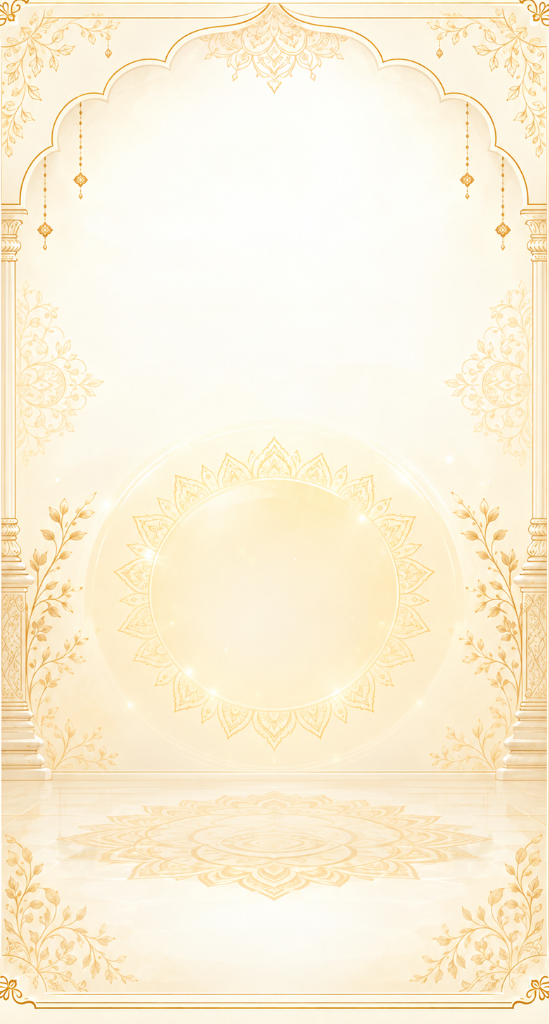
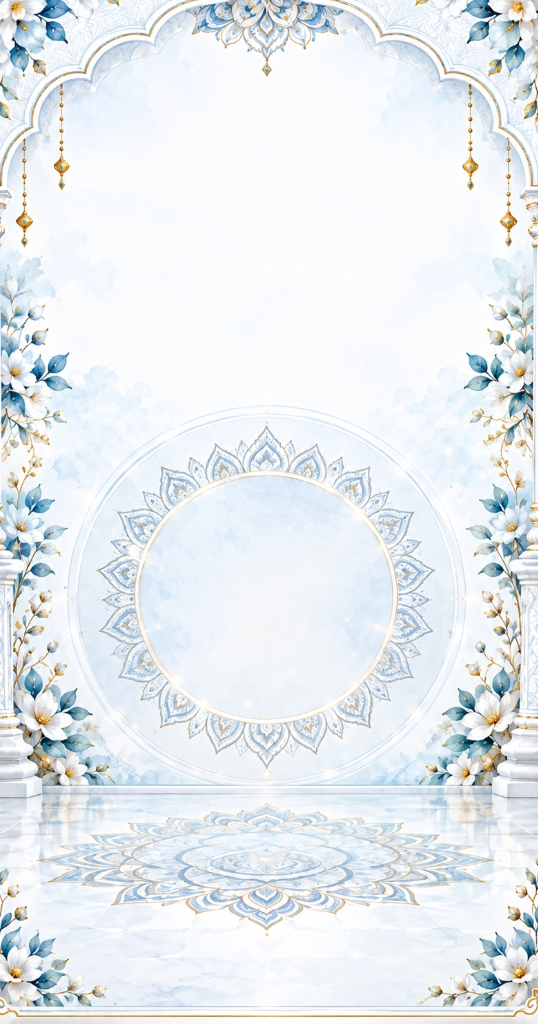
feat(theme): update hero bg to blue floral mandala and set whole website background to #F3F5FA

diff --git a/style.css b/style.css
@@ -17,7 +17,7 @@
   --color-text-muted: #4a5568;
   --color-text-soft: #718096;
   
-  --bg-page: #fbf8f2;
+  --bg-page: #F3F5FA;
   --bg-card: #ffffff;
   
   --container-pad: 16px;
@@ -50,7 +50,7 @@
 html {
   scroll-behavior: smooth;
   font-size: 16px;
-  background-color: #fcf4de;
+  background-color: #F3F5FA;
   color: var(--color-text-main);
   -webkit-text-size-adjust: 100%;
 }
@@ -59,7 +59,7 @@ body {
   font-family: var(--font-sans);
   line-height: 1.5;
   min-height: 100vh;
-  background-color: #fcf4de;
+  background-color: #F3F5FA;
   overflow-x: clip;
   display: flex;
   justify-content: center;
@@ -106,7 +106,7 @@ button {
 .invite-container {
   width: 100%;
   max-width: 480px;
-  background-color: #fcf4de;
+  background-color: #F3F5FA;
   min-height: 100vh;
   box-shadow: 0 15px 50px rgba(19, 57, 121, 0.12), 0 0 0 1px rgba(212, 175, 55, 0.3);
   padding: 0 var(--container-pad) 40px;
@@ -501,7 +501,7 @@ button {
   position: relative;
   width: 100%;
   aspect-ratio: 3 / 4;
-  background: #f0ebe1;
+  background: #F3F5FA;
   border-radius: var(--radius-sm);
   overflow: hidden;
   box-shadow: 0 10px 26px rgba(19, 57, 121, 0.14), 0 0 0 1px rgba(212, 175, 55, 0.35);
@@ -855,7 +855,7 @@ button {
   width: 100%;
   aspect-ratio: 4 / 3;
   overflow: hidden;
-  background: #fbf8f2;
+  background: #F3F5FA;
 }
 
 .big-photo-frame img {
@@ -1679,7 +1679,7 @@ h1, h2, h3, h4,
   align-items: center;
   gap: 8px;
   padding: 8px 14px 8px 10px;
-  background: rgba(253, 244, 222, 0.94);
+  background: rgba(243, 245, 250, 0.94);
   backdrop-filter: blur(8px);
   -webkit-backdrop-filter: blur(8px);
   border: 1.5px solid rgba(212, 175, 55, 0.65);
